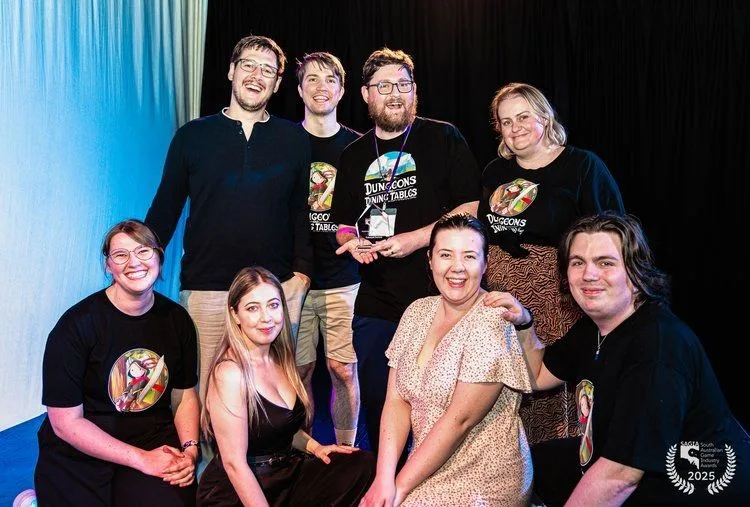
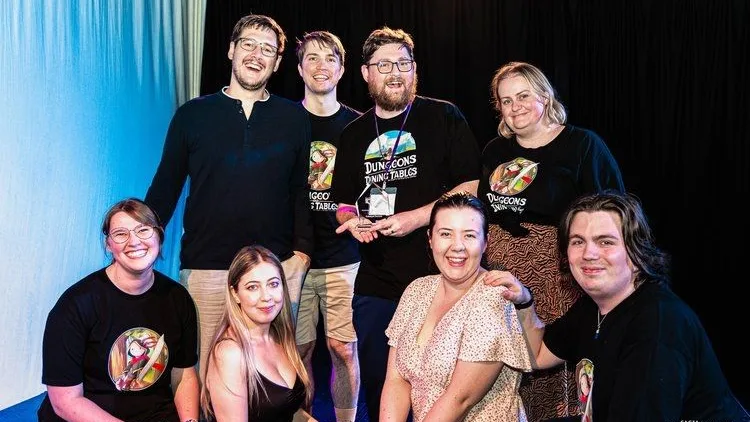
Data entry

diff --git a/src/data/experience.ts b/src/data/experience.ts
@@ -42,10 +42,11 @@ export const experience = {
 			cardDateLabel: '2022 - Present',
 			sortDate: '2026-05-01',
 			context: 'Independent studio',
-			summary: 'Co-founded Daytime Devs and helped self-publish Super BAWK BAWK Chicken across PC and mobile.',
+			summary:
+				'Co-founded Daytime Devs and with my two brothers and self-published our first title Super BAWK BAWK Chicken across Steam, Google Play, and the App Store.',
 			recognition: [
 				{
-					name: 'Best Game',
+					name: 'Best Game - Super BAWK BAWK Chicken',
 					awardedFrom: "The Mercury's South Australian Screen Awards",
 					year: '2024',
 					emblem: {
@@ -55,8 +56,7 @@ export const experience = {
 				},
 			],
 			highlights: [
-				'Released Super BAWK BAWK Chicken on Steam, Google Play, and the App Store.',
-				'Helped grow the game to 25,500+ Google Play downloads and deliver 15 updates since the 2023 demo launch.',
+				'Grew our first title to 25,500+ Google Play downloads and delivered 15 updates since the 2023 demo launch.',
 				'Worked across design, C# gameplay and tools, shaders, debugging, mobile porting, store publishing, marketing, conventions, and interviews.',
 			],
 			tools: ['Unity', 'C#', 'Steam', 'Google Play', 'App Store', 'Shaders', 'Tooling'],
@@ -72,16 +72,8 @@ export const experience = {
 					alt: 'Catalyst Games team members posing with a SAGTA South Australian Game Industry Award.',
 				},
 				{
-					src: '/assets/images/catalyst-think-digital-vr-cattle-vr.webp',
+					src: '/assets/images/experience-catalyst-games-think-digital-vr-cattle-vr.webp',
 					alt: 'Catalyst and Think Digital VR team members filming a cattle VR training experience.',
-				},
-				{
-					src: '/assets/images/experience-catalyst-games-sagta-award-media-wall.webp',
-					alt: 'Catalyst Games team members at the SAGTA awards media wall holding an award.',
-				},
-				{
-					src: '/assets/images/experience-catalyst-games-studio-event-audience.webp',
-					alt: 'Catalyst Games studio event guests watching a presentation.',
 				},
 				{
 					src: '/assets/images/experience-catalyst-games-studio-event-group.webp',
@@ -94,6 +86,18 @@ export const experience = {
 			context: 'Client and studio projects',
 			summary:
 				'Delivered production systems, client applications, and VR training experiences before moving into a Technical Director role supporting project delivery.',
+			recognition: [
+				{
+					name: 'Most Impactful Studio of 2025',
+					awardedFrom: 'SA Game Industry Awards (SAGIA)',
+					detail: 'Inaugural South Australian Game Industry Awards',
+					year: '2025',
+					emblem: {
+						src: '/assets/images/company-catalyst-games.webp',
+						alt: 'Catalyst Games award emblem.',
+					},
+				},
+			],
 			highlights: [
 				'Developed a SAGE vertical slice within my first month as the studio transitioned to a new project.',
 				'Introduced scene management, asynchronous loading, Addressables, a UI framework, and a decoration system.',
@@ -186,17 +190,13 @@ export const experience = {
 					alt: 'Pixel art solo developer overlooking a bright mountain valley.',
 				},
 			],
-			dateLabel: '2021 - Present',
-			cardDateLabel: '2021 - Present',
+			dateLabel: 'Present',
+			cardDateLabel: 'Present',
 			sortDate: '2026-05-10',
 			context: 'Independent games, tools, and web projects',
 			summary:
-				'Built independent games, prototypes, tools, and web projects across solo development cycles, carrying ideas from early concept through practical delivery.',
-			highlights: [
-				'Created both handcrafted and AI-assisted games, prototypes, tools, and web projects as part of a long-running independent software practice.',
-				'Built software as a lifelong hobby from primary school before beginning professional software development work in 2021.',
-				'Released my first game title in 2023, gaining practical experience across publishing, iteration, and post-release support.',
-			],
+				'Created handcrafted and AI-assisted prototypes, mods, tools, videos, and web projects across solo development cycles, carrying ideas into playable prototypes or released works.',
+			highlights: ['Published Luke Lachlan Day website in 2026.', 'Many, many prototypes enjoyed by friends and family.'],
 			tools: ['Unity', 'C#', 'Astro', 'TypeScript', 'Game Prototyping', 'Web Tools'],
 		},
 		{
@@ -390,8 +390,8 @@ export const experience = {
 				},
 			],
 			highlights: [
-				'Coached by the Legendary Debbie Meich at Western Athletics Club.',
 				'Went to Sydney to represent South Australia at the 2012 Junior Athletics Championships.',
+				'Coached by the legendary Debbie Meich at Western Athletics Club.',
 			],
 			tools: ['Athletics', 'Sprinting', '200 metres', '100 metres', 'State Championships', 'Personal Bests'],
 		},

diff --git a/src/utils/images.ts b/src/utils/images.ts
@@ -29,10 +29,9 @@ export const imageDimensionsBySrc = {
 	'/assets/images/contact-mailbox-light.webp': { width: 1390, height: 1132 },
 	'/assets/images/experience-australian-army.webp': { width: 760, height: 478 },
 	'/assets/images/experience-book.webp': { width: 760, height: 478 },
-	'/assets/images/experience-catalyst-games-sagta-award-group.webp': { width: 750, height: 507 },
-	'/assets/images/experience-catalyst-games-sagta-award-media-wall.webp': { width: 760, height: 507 },
-	'/assets/images/experience-catalyst-games-studio-event-audience.webp': { width: 760, height: 507 },
-	'/assets/images/experience-catalyst-games-studio-event-group.webp': { width: 760, height: 507 },
+	'/assets/images/experience-catalyst-games-sagta-award-group.webp': { width: 750, height: 422 },
+	'/assets/images/experience-catalyst-games-studio-event-group.webp': { width: 760, height: 428 },
+	'/assets/images/experience-catalyst-games-think-digital-vr-cattle-vr.webp': { width: 760, height: 428 },
 	'/assets/images/experience-daytime-devs-avcon-costumes.webp': { width: 760, height: 428 },
 	'/assets/images/experience-daytime-devs-booth-team.webp': { width: 760, height: 428 },
 	'/assets/images/experience-daytime-devs-convention.webp': { width: 760, height: 428 },
